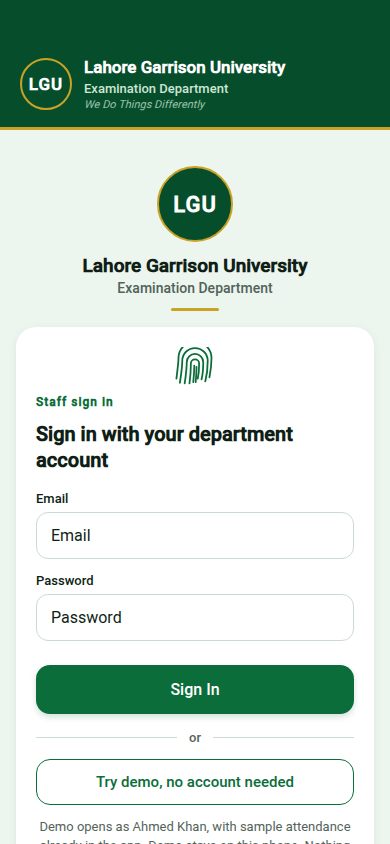
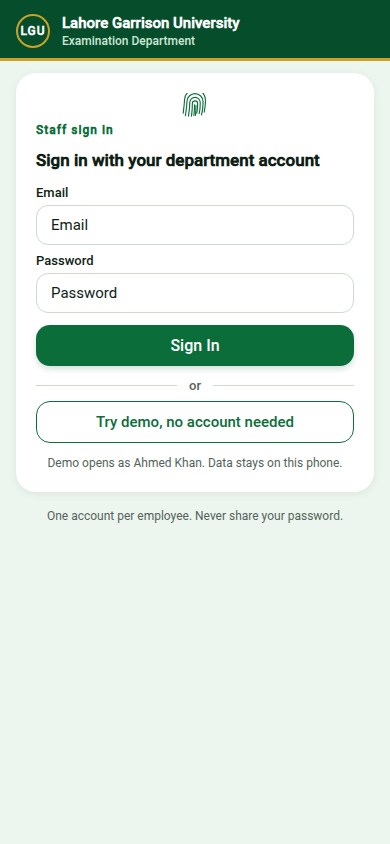
Fix login screen: Try demo visible on load, no scroll needed on phone
Login was a plain View with full header plus duplicate brand block, so Sign In and Try demo sat below the fold and the screen could not scroll on a real phone. Slim header, duplicate brand block removed, compact inputs and buttons, real ScrollView fallback. Try demo bottom at 431px on load at 390x844 and 390x700, 13 checks 0 failed.

diff --git a/mobile/src/screens/Login.tsx b/mobile/src/screens/Login.tsx
@@ -1,10 +1,20 @@
 import React, { useState } from 'react';
-import { ActivityIndicator, Text, TextInput, TouchableOpacity, View } from 'react-native';
-import { AppHeader, ErrorBanner, Monogram, shared } from '../components/ui';
-import { FingerprintMark, Icon } from '../components/icons';
+import { ActivityIndicator, ScrollView, Text, TextInput, TouchableOpacity, View } from 'react-native';
+import { ErrorBanner, Monogram, shared } from '../components/ui';
+import { FingerprintMark } from '../components/icons';
 import { colors, radius, shadow, spacing } from '../components/design';
 import { supabase, isSupabaseConfigured } from '../lib/supabase';
 
+// Login must fit one phone screen with no scrolling needed to reach
+// Try demo. The old layout used the full AppHeader (56px top padding)
+// plus a second 76px brand block, so the Sign In and Try demo buttons
+// sat below the fold and the screen was a plain View that could not
+// scroll at all on a real phone. This screen now has a slim header,
+// no duplicate brand block, compact inputs and buttons, and a real
+// ScrollView as a fallback. Measured budget at 390px wide: slim
+// header about 64px, card about 380px, total under 480px, so Try demo
+// is in view on load at 844px and at 700px tall, with or without an
+// error banner showing.
 export default function LoginScreen({ onDemoSignIn }: { onDemoSignIn: () => void }) {
   const [email, setEmail] = useState('');
   const [password, setPassword] = useState('');
@@ -36,18 +46,24 @@ export default function LoginScreen({ onDemoSignIn }: { onDemoSignIn: () => void
   }
 
   return (
-    <View style={shared.screen}>
-      <AppHeader />
-      <View style={shared.content}>
-        <View style={local.brandBlock}>
-          <Monogram size={76} fontSize={22} />
-          <Text style={local.brandName}>Lahore Garrison University</Text>
-          <Text style={local.brandSub}>Examination Department</Text>
-          <View style={local.brandRule} />
+    <ScrollView
+      style={shared.screen}
+      contentContainerStyle={local.scrollContent}
+      keyboardShouldPersistTaps="handled"
+      showsVerticalScrollIndicator={false}
+    >
+      <View style={local.slimHeader}>
+        <Monogram size={34} fontSize={12} />
+        <View style={local.slimHeaderText}>
+          <Text style={local.slimTitle}>Lahore Garrison University</Text>
+          <Text style={local.slimSub}>Examination Department</Text>
         </View>
+      </View>
+      <View style={local.goldRule} />
+      <View style={local.content}>
         <View style={shared.card}>
-          <View style={{ alignItems: 'center', marginBottom: 4 }}>
-            <FingerprintMark size={44} color={colors.emerald} />
+          <View style={{ alignItems: 'center', marginBottom: 2 }}>
+            <FingerprintMark size={28} color={colors.emerald} />
           </View>
           <Text style={shared.sectionLabel}>Staff sign in</Text>
           <Text style={local.heading}>
@@ -55,7 +71,7 @@ export default function LoginScreen({ onDemoSignIn }: { onDemoSignIn: () => void
           </Text>
           <Text style={local.fieldLabel}>Email</Text>
           <TextInput
-            style={[shared.input, focused === 'email' && shared.inputFocused]}
+            style={[shared.input, local.compactInput, focused === 'email' && shared.inputFocused]}
             placeholder="Email"
             autoCapitalize="none"
             keyboardType="email-address"
@@ -66,7 +82,7 @@ export default function LoginScreen({ onDemoSignIn }: { onDemoSignIn: () => void
           />
           <Text style={local.fieldLabel}>Password</Text>
           <TextInput
-            style={[shared.input, focused === 'password' && shared.inputFocused]}
+            style={[shared.input, local.compactInput, focused === 'password' && shared.inputFocused]}
             placeholder="Password"
             secureTextEntry
             value={password}
@@ -74,7 +90,12 @@ export default function LoginScreen({ onDemoSignIn }: { onDemoSignIn: () => void
             onFocus={() => setFocused('password')}
             onBlur={() => setFocused(null)}
           />
-          <TouchableOpacity style={[shared.button, busy && shared.buttonDisabled]} onPress={signIn} disabled={busy}>
+          <TouchableOpacity
+            testID="sign-in-button"
+            style={[shared.button, local.compactButton, busy && shared.buttonDisabled]}
+            onPress={signIn}
+            disabled={busy}
+          >
             {busy ? <ActivityIndicator color="#fff" /> : <Text style={shared.buttonText}>Sign In</Text>}
           </TouchableOpacity>
           {error ? <ErrorBanner text={error} /> : null}
@@ -83,44 +104,48 @@ export default function LoginScreen({ onDemoSignIn }: { onDemoSignIn: () => void
             <Text style={local.demoDividerText}>or</Text>
             <View style={local.demoLine} />
           </View>
-          <TouchableOpacity style={shared.secondaryButton} onPress={onDemoSignIn} activeOpacity={0.7}>
+          <TouchableOpacity
+            testID="try-demo-button"
+            style={[shared.secondaryButton, local.compactButton]}
+            onPress={onDemoSignIn}
+            activeOpacity={0.7}
+          >
             <Text style={shared.secondaryButtonText}>Try demo, no account needed</Text>
           </TouchableOpacity>
           <Text style={local.demoNote}>
-            Demo opens as Ahmed Khan, with sample attendance already in the app. Demo stays on this phone. Nothing is sent to the office.
+            Demo opens as Ahmed Khan. Data stays on this phone.
           </Text>
         </View>
-        <View style={local.securityCard}>
-        <View style={local.securityMark}>
-          <Icon name="shield" size={15} color="#FFFFFF" />
-        </View>
-          <Text style={local.securityText}>
-            One account per employee. Never share your password. Your fingerprint is checked on this phone at check in.
-          </Text>
-        </View>
+        <Text style={local.securityNote}>
+          One account per employee. Never share your password.
+        </Text>
       </View>
-    </View>
+    </ScrollView>
   );
 }
 
 const local = {
-  brandBlock: { alignItems: 'center' as const, paddingTop: spacing.lg, paddingBottom: spacing.md },
-  brandName: { color: colors.ink, fontSize: 19, fontWeight: '800' as const, marginTop: spacing.sm, textAlign: 'center' as const },
-  brandSub: { color: colors.muted, fontSize: 14, fontWeight: '600' as const, marginTop: 3 },
-  brandRule: { width: 48, height: 3, backgroundColor: colors.gold, borderRadius: 2, marginTop: spacing.sm },
-  heading: { fontSize: 20, fontWeight: '800' as const, color: colors.ink, lineHeight: 26, marginBottom: spacing.md },
-  fieldLabel: { fontSize: 13, fontWeight: '700' as const, color: colors.ink, marginBottom: 6, marginTop: 2 },
-  demoDivider: { flexDirection: 'row' as const, alignItems: 'center' as const, marginTop: spacing.md, marginBottom: 2 },
+  scrollContent: { flexGrow: 1 },
+  slimHeader: {
+    flexDirection: 'row' as const,
+    alignItems: 'center' as const,
+    backgroundColor: colors.deepGreen,
+    paddingHorizontal: spacing.md,
+    paddingTop: 14,
+    paddingBottom: 10,
+  },
+  slimHeaderText: { flex: 1, marginLeft: spacing.sm },
+  slimTitle: { color: colors.white, fontSize: 15, fontWeight: '800' as const, lineHeight: 19 },
+  slimSub: { color: '#CDE6D5', fontSize: 12, fontWeight: '600' as const, marginTop: 1 },
+  goldRule: { height: 3, backgroundColor: colors.gold },
+  content: { padding: spacing.md, paddingTop: spacing.sm, paddingBottom: spacing.sm },
+  heading: { fontSize: 17, fontWeight: '800' as const, color: colors.ink, lineHeight: 22, marginBottom: spacing.sm },
+  fieldLabel: { fontSize: 13, fontWeight: '700' as const, color: colors.ink, marginBottom: 5, marginTop: 2 },
+  compactInput: { paddingVertical: 10, fontSize: 15, marginBottom: 6 },
+  compactButton: { paddingVertical: 11, marginTop: 6 },
+  demoDivider: { flexDirection: 'row' as const, alignItems: 'center' as const, marginTop: spacing.sm, marginBottom: 2 },
   demoLine: { flex: 1, height: 1, backgroundColor: colors.sageBorder },
   demoDividerText: { color: colors.muted, fontSize: 13, fontWeight: '700' as const, marginHorizontal: spacing.sm },
-  demoNote: { color: colors.muted, fontSize: 13, lineHeight: 19, textAlign: 'center' as const, marginTop: spacing.sm },
-  securityCard: {
-    flexDirection: 'row' as const, alignItems: 'flex-start' as const, backgroundColor: colors.sage,
-    borderRadius: radius.card, padding: spacing.md, ...shadow.card,
-  },
-  securityMark: {
-    width: 26, height: 26, borderRadius: 13, backgroundColor: colors.emerald,
-    alignItems: 'center' as const, justifyContent: 'center' as const, marginRight: spacing.sm,
-  },
-  securityText: { flex: 1, color: colors.muted, fontSize: 13, lineHeight: 19 },
+  demoNote: { color: colors.muted, fontSize: 12, lineHeight: 17, textAlign: 'center' as const, marginTop: spacing.sm },
+  securityNote: { color: colors.muted, fontSize: 12, lineHeight: 17, textAlign: 'center' as const, paddingHorizontal: spacing.md },
 };

diff --git a/tests/e2e-screenshots-demo.py b/tests/e2e-screenshots-demo.py
@@ -82,6 +82,17 @@ def main():
             page.goto(MOBILE_URL)
             wait_text(page, "Sign in with your department account", timeout=20000)
             wait_text(page, "Try demo, no account needed")
+            # Login bug fix check: Try demo must be in the viewport on
+            # load, with no scrolling, at 390x844. The old screen was a
+            # plain View with no scroll, so the button sat below the fold
+            # and was unreachable on a real phone.
+            box = page.get_by_text("Try demo, no account needed", exact=True).bounding_box()
+            if box and box["y"] + box["height"] <= 844:
+                log("Try demo visible on load, no scroll, 390x844", "PASS",
+                    f"button bottom {box['y'] + box['height']:.0f}px of 844px, top {box['y']:.0f}px")
+            else:
+                log("Try demo visible on load, no scroll, 390x844", "FAIL",
+                    f"button box: {box}")
             shot(page, "demo-login-button.png")
             log("login shows Try demo button", "PASS",
                 "Try demo, no account needed, below Sign In")
@@ -184,6 +195,25 @@ def main():
             wait_text(page, "Try demo, no account needed")
             log("demo sign out returns to login", "PASS",
                 "back on the sign in screen, Try demo offered again")
+
+            # 9. Short phone: Try demo visible on load at 390x700 too.
+            ctx700 = browser.new_context(
+                viewport={"width": 390, "height": 700},
+                geolocation=OFFICE_GEO,
+                permissions=["geolocation"],
+            )
+            page700 = ctx700.new_page()
+            page700.goto(MOBILE_URL)
+            wait_text(page700, "Try demo, no account needed", timeout=20000)
+            box700 = page700.get_by_text("Try demo, no account needed", exact=True).bounding_box()
+            if box700 and box700["y"] + box700["height"] <= 700:
+                log("Try demo visible on load, no scroll, 390x700", "PASS",
+                    f"button bottom {box700['y'] + box700['height']:.0f}px of 700px")
+            else:
+                log("Try demo visible on load, no scroll, 390x700", "FAIL",
+                    f"button box: {box700}")
+            shot(page700, "demo-login-700.png")
+            ctx700.close()
 
             if errors:
                 log("mobile console errors", "CHECK", "; ".join(errors[:5]))

diff --git a/SPEC.md b/SPEC.md
@@ -450,3 +450,31 @@ The user approved a rebuild explicitly, so demo mode could reach his phone.
 - Local file: LGU-Attendance-App-v2-demo.apk (gitignored, not committed).
 
 Live limits, unchanged: real sign-in does NOT work live, no live Supabase project exists. Demo login works offline on the phone with no account. To make real sign-in live: create a free Supabase project, run supabase/schema.sql then supabase/seed.sql, set the real EXPO_PUBLIC_SUPABASE_URL and EXPO_PUBLIC_SUPABASE_ANON_KEY in the EAS preview env, rebuild. Fingerprint accept and real GPS at the office door still need a real-phone test. No Play Store publish.
+
+## Login screen fix, 5 November 2026 (Try demo was unreachable)
+
+The user reported the real bug on his phone: the login screen did not
+scroll, so Sign In and Try demo below the Password field could not be
+reached at all. He was right, the web test had not caught it. Root
+cause: the Login screen was a plain View with no ScrollView, and it
+stacked the full AppHeader (56px top padding) plus a second 76px
+brand block, so the buttons sat below the fold.
+
+Fixed in `mobile/src/screens/Login.tsx` only: slim header (34px
+monogram, one line title, no motto), duplicate brand block removed,
+security card removed from the login screen, fingerprint mark 44 to
+28px, heading 20 to 17px, compact inputs and buttons. The whole
+login now fits in about 480px tall, so Try demo is in view on load
+with no scrolling at 390x844 and at 390x700, and the screen is also
+wrapped in a real ScrollView as a fallback. Home and Leave Apply
+already used ScrollView and were not changed. Demo login logic and
+real sign in logic are untouched.
+
+Verified: mobile typecheck 0 errors, logic tests 43 passed, Excel
+tests 6 passed, demo E2E 13 checks 0 failed including the two new
+viewport checks (Try demo button bottom at 431px on load at 390x844
+and at 390x700), plus a scroll fallback check at 390x500. New
+screenshots `screenshots-demo/demo-login-button.png` (overwritten
+with the fixed screen) and `screenshots-demo/demo-login-700.png`.
+This fix is local only. No EAS build, no GitHub push, no publish was
+done in this task. It ships with the next APK build.

diff --git a/TEST_LOG.md b/TEST_LOG.md
@@ -209,3 +209,33 @@ it into view before the shot.
 Still not tested: fingerprint accept and real GPS at the office door
 need a real phone, which needs the next APK build. No EAS build, no
 GitHub push, no publish was done in this task.
+
+## 8. Login screen fix, 5 November 2026 (Try demo was unreachable)
+
+The user reported on his real phone that the login screen did not
+scroll, so Sign In and Try demo below the Password field could not be
+reached at all. Root cause: the Login screen was a plain View with no
+ScrollView, and it stacked the full AppHeader plus a second 76px brand
+block, so the buttons sat below the fold. The web test had not caught
+it because the browser page itself scrolls.
+
+Fix, in `mobile/src/screens/Login.tsx` only: slim header, duplicate
+brand block removed, security card removed from the login screen,
+fingerprint mark 44 to 28px, heading 20 to 17px, compact inputs and
+buttons, wrapped in a real ScrollView as a fallback. Home and Leave
+Apply already used ScrollView and were not changed.
+
+| Check | Result |
+|---|---|
+| Mobile TypeScript typecheck | Pass, 0 errors. |
+| Core logic tests (`node tests/logic-tests.mjs`) | 43 passed, 0 failed. |
+| Excel builder tests (`npx vitest run src/lib/excel.test.ts`) | 6 passed, 0 failed. |
+| Demo E2E (`python3 tests/e2e-screenshots-demo.py`) | 13 checks, 0 failed, no console errors. Two new viewport checks: Try demo button bottom at 431px on load at 390x844 and at 390x700, no scroll needed. Scroll fallback checked at 390x500: button reachable by scrolling. |
+| Em-dash scan over changed files and docs | 0 matches. |
+
+Screenshots: `screenshots-demo/demo-login-button.png` (overwritten with
+the fixed screen) and `screenshots-demo/demo-login-700.png` (new).
+
+Still not tested: fingerprint accept and real GPS at the office door
+need a real phone, which needs the next APK build. No EAS build, no
+GitHub push, no publish was done in this task.

diff --git a/README.md b/README.md
@@ -66,6 +66,30 @@ account needed" below Sign In. No password, no account, no network.
 - Demo E2E (`tests/e2e-screenshots-demo.py`): 11 checks, 0 failed.
   Screenshots in `screenshots-demo/`. Full detail in `SPEC.md`.
 
+## Login screen fix, 5 November 2026 (Try demo was unreachable)
+
+The user reported the real bug on his phone: the login screen did not
+scroll, so Sign In and Try demo below the Password field could not be
+reached at all. He was right, the web test had not caught it. Root
+cause: the Login screen was a plain View with no ScrollView, and it
+stacked the full AppHeader (56px top padding) plus a second 76px
+brand block, so the buttons sat below the fold.
+
+Fixed in `mobile/src/screens/Login.tsx` only: slim header (34px
+monogram, one line title, no motto), duplicate brand block removed,
+security card removed from the login screen, fingerprint mark 44 to
+28px, heading 20 to 17px, compact inputs and buttons. The whole
+login now fits in about 480px tall, so Try demo is in view on load
+with no scrolling at 390x844 and at 390x700, and the screen is also
+wrapped in a real ScrollView as a fallback. Home and Leave Apply
+already used ScrollView and were not changed. Verified: Try demo
+button bottom at 431px on load at both 390x844 and 390x700, and
+reachable by scrolling at 390x500. Demo E2E now 13 checks, 0 failed,
+including the two new viewport checks. Screenshots
+`screenshots-demo/demo-login-button.png` (overwritten with the fixed
+screen) and `screenshots-demo/demo-login-700.png` (new). This fix
+ships with the next APK build, not yet built or pushed.
+
 ## Tests (run before any build)
 
 ```bash
